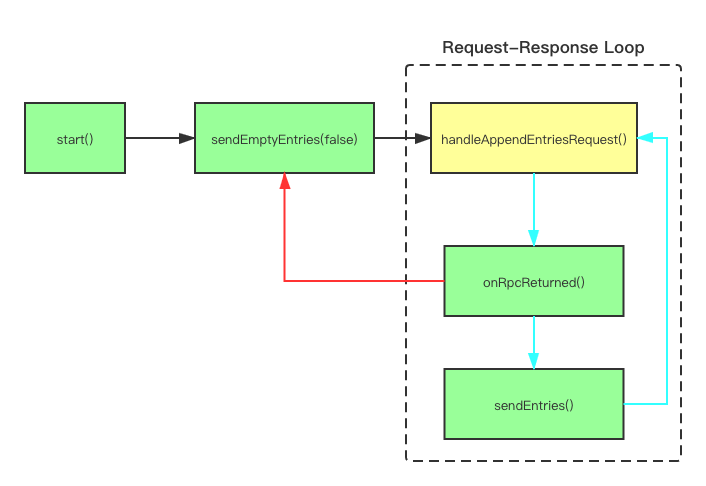
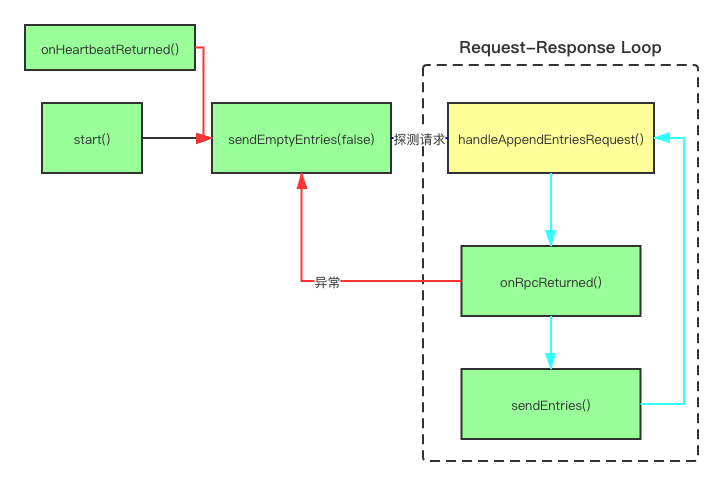
tijiao

diff --git a/source/_posts/20200401-【JRaft源码分析02】心跳机制以及日志复制.md b/source/_posts/20200401-【JRaft源码分析02】心跳机制以及日志复制.md
@@ -353,6 +353,9 @@ static void onHeartbeatReturned(final ThreadId id, final Status status, final Ap
 
 #### 2.3、AppendEntries要开始了么？
 
+日志复制可以说是绕得一批，我刚开始看有各种想当然，后来发现不是那样，很是疯狂。完全理清后，画个图比较直观。
+![日志复制请求响应循环](https://raw.githubusercontent.com/zehonghuang/github_blog_bak/master/source/image/%E6%97%A5%E5%BF%97%E5%A4%8D%E5%88%B6%E8%AF%B7%E6%B1%82%E5%93%8D%E5%BA%94%E5%BE%AA%E7%8E%AF.png)
+
 ``` java
 private void sendEmptyEntries(final boolean isHeartbeat,
                                   final RpcResponseClosure<AppendEntriesResponse> heartBeatClosure) {
